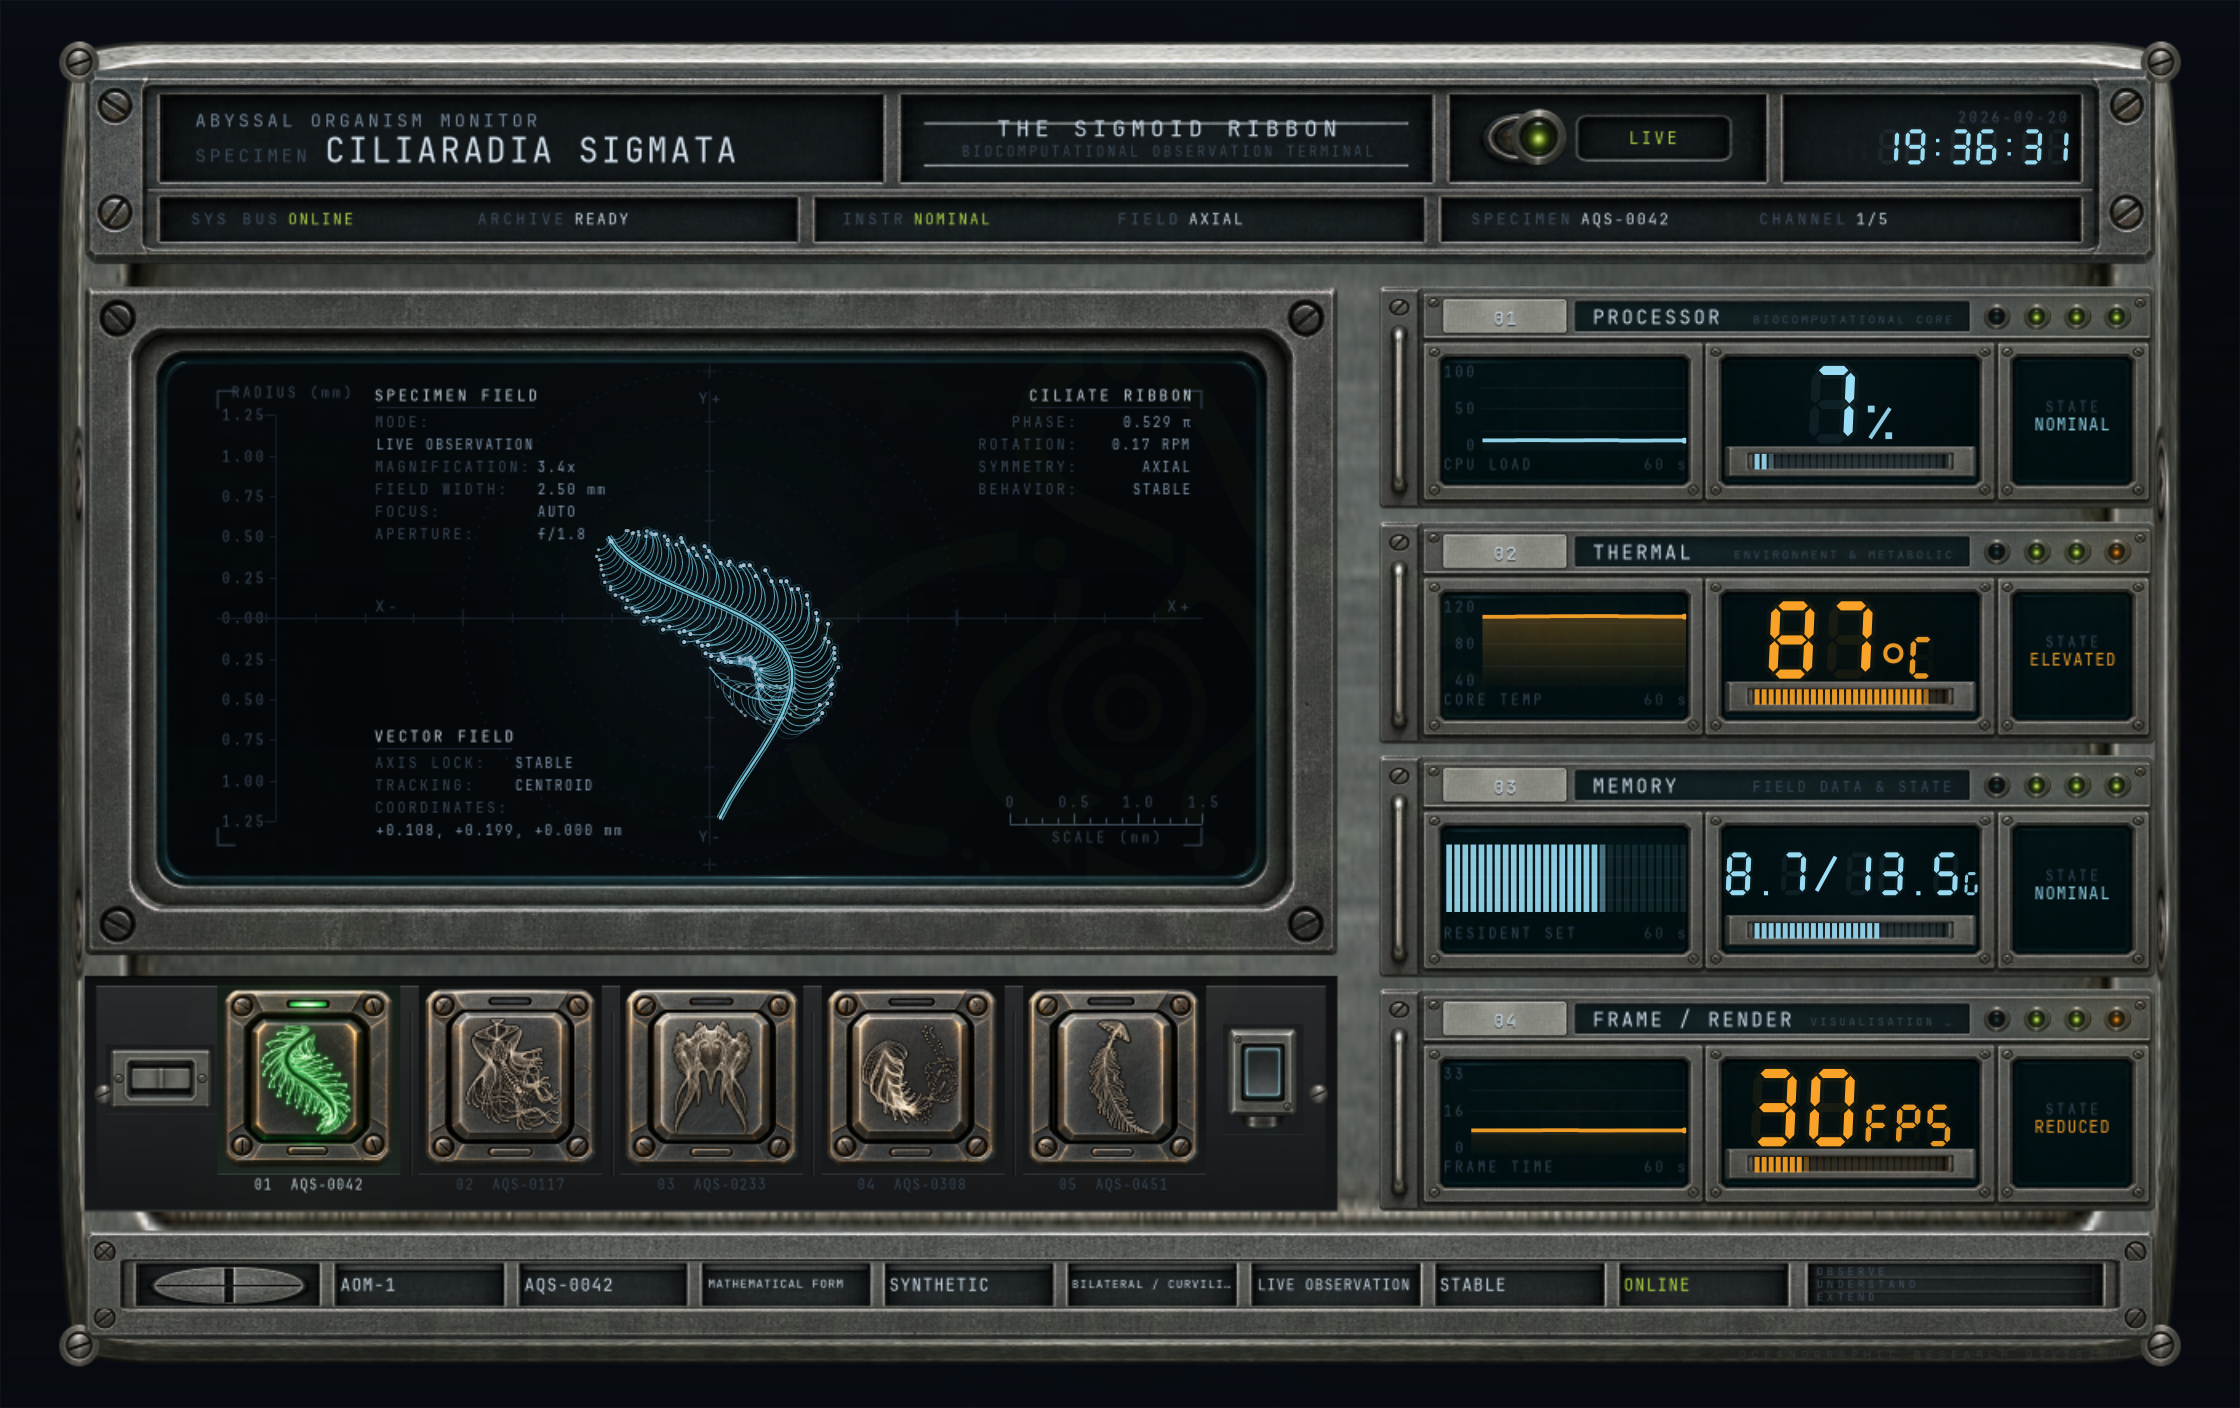
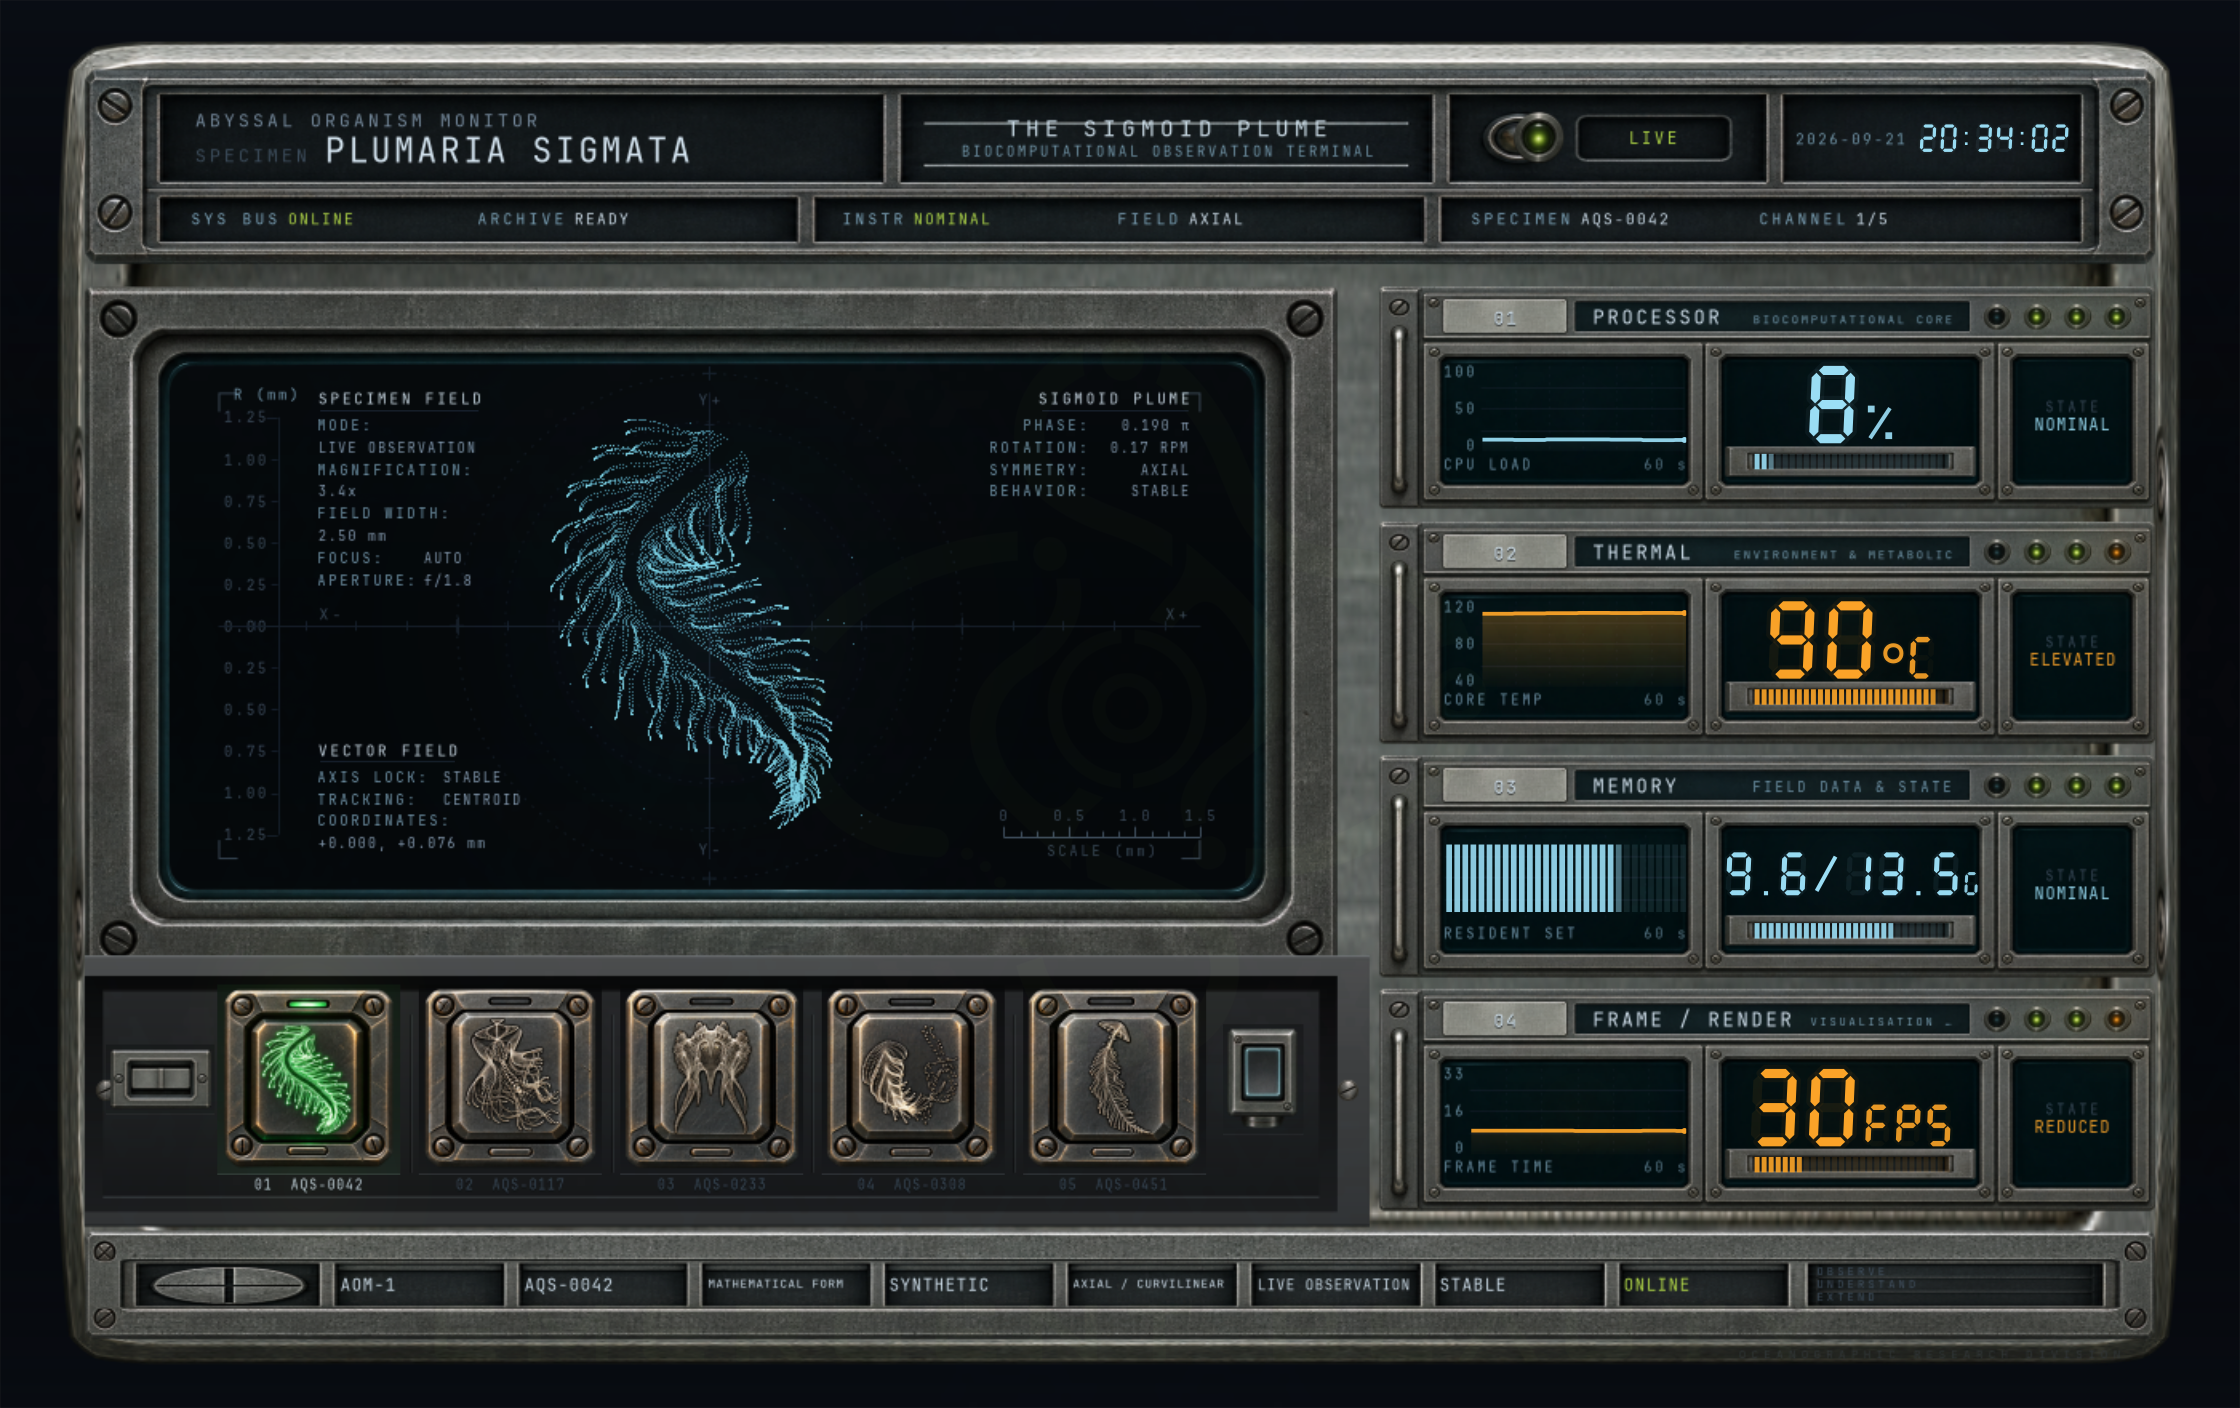
Hold the trail in seconds; finish the convergence pass
The mirrored specimen composites with a translucent wash, keeping 62% of each
frame. That rate is per frame at 60fps. On this compositor large windows
present at 30, so applied per frame the trail smeared across twice the motion
and the body read as a saturated mass. Retention is now raised to each
frame's own duration - the trail holds ~75ms at any frame rate - and the ink
gain divides out its steady-state brightness so a trailing specimen is not
brighter than a clearing one.

Final screenshots from the live app, the five standalone validation renders
with their key comparison, and the architecture, validation and README
updates for the equation port.

diff --git a/abyssal/organism/mathforms.py b/abyssal/organism/mathforms.py
@@ -76,7 +76,7 @@ class SourceBody:
     """One specimen. Solves its equation each frame into world coordinates."""
 
     __slots__ = ("src", "time", "seed", "core_r", "_perm", "_mod2", "_mod4",
-                 "_n", "_x", "_y", "_w", "_live", "_warm", "_expr")
+                 "_n", "_x", "_y", "_w", "_live", "_warm", "_expr", "_dt")
 
     def __init__(self, src: S.Source, seed: int = 20260920) -> None:
         self.src = src
@@ -103,6 +103,7 @@ class SourceBody:
         self._live = src.n
         self._warm = 0.0
         self._expr = 1.0
+        self._dt = 1.0 / SOURCE_FPS
         self.update(0.0, Physiology())
 
     # -- contract ---------------------------------------------------------
@@ -117,10 +118,18 @@ class SourceBody:
 
     @property
     def persist(self) -> float:
-        """Frame retention. Memory pressure lengthens what trails species keep."""
+        """Retention for THIS frame. Memory pressure lengthens the trail.
+
+        The source's retention is per frame at 60 frames a second. Applied per
+        frame on a machine presenting at 30, the trail would smear across twice
+        as much motion and read as a saturated mass. Raising it to the frame's
+        own duration keeps the trail's length constant in SECONDS, which is
+        the thing the eye actually sees.
+        """
         if self.src.persist <= 0.0:
             return 0.0
-        return min(0.88, self.src.persist + 0.16 * self._expr)
+        base = min(0.88, self.src.persist + 0.16 * self._expr)
+        return base ** max(0.25, min(4.0, self._dt * SOURCE_FPS))
 
     def points(self) -> tuple[np.ndarray, np.ndarray, np.ndarray]:
         """(world x, world y, weight) for this frame."""
@@ -136,6 +145,8 @@ class SourceBody:
         # can never become the whole of a creature's response to load.
         rate = 1.0 + 0.5 * p.agitation
         self.time += dt * SOURCE_FPS * self.src.dt * rate
+        if dt > 0.0:
+            self._dt = dt
 
         self._warm = _smoothstep(0.58, 0.95, p.pulse)
         self._expr = min(1.0, MIN_EXPRESSION

diff --git a/abyssal/organism/render.py b/abyssal/organism/render.py
@@ -139,6 +139,17 @@ def draw_organism(cr, vp: Viewport, org: SourceBody) -> None:
     # strongly, or the creature fades out as the window grows.
     eff = vp.scale * res
     ink = min(org.src.ink * 0.78 / max(eff * eff * 3.4, 0.02), 3.6)
+    # A trailing species keeps a fraction `r` of every frame, so its
+    # accumulator converges to 1/(1-r) times a single frame's count. Divide
+    # that back out, or the trail - the species' whole character - saturates
+    # into a solid silhouette and the structure inside it is lost.
+    # Square root rather than the full 1-r: the eye reads a soft-knee
+    # composite, not a linear count, so dividing the whole gain out left the
+    # trail a faint ghost. This keeps it as bright as a clearing species
+    # while leaving the structure inside it legible.
+    r = org.persist
+    if r > 0.0:
+        ink *= (1.0 - r) ** 0.5 * 1.55
 
     warm = org.warmth
     lo = _mix(CYAN_DEEP, (0.34, 0.20, 0.06), warm)

diff --git a/qa/shots.py b/qa/shots.py
@@ -13,10 +13,10 @@ import json  # noqa: E402
 SHOTS = [("compact", 460, 380, []), ("instrument", 900, 700, []),
          ("instrument-tall", 760, 620, []), ("archive", 1400, 880, []),
          ("calibration", 900, 700, ["--calibration"]),
-         ("specimen-2-funnelis", 1400, 880, ["--specimen", "1"]),
-         ("specimen-3-symmetra", 1400, 880, ["--specimen", "2"]),
-         ("specimen-4-dyad", 1400, 880, ["--specimen", "3"]),
-         ("specimen-5-frond", 1400, 880, ["--specimen", "4"])]
+         ("specimen-2-coniugata", 1400, 880, ["--specimen", "1"]),
+         ("specimen-3-rostrata", 1400, 880, ["--specimen", "2"]),
+         ("specimen-4-quadriplex", 1400, 880, ["--specimen", "3"]),
+         ("specimen-5-solitaria", 1400, 880, ["--specimen", "4"])]
 
 #: Close-ups cropped from a captured shot: (source, name, x, y, w, h) as
 #: FRACTIONS of the captured image, so they survive a resolution change.

diff --git a/docs/ARCHITECTURE.md b/docs/ARCHITECTURE.md
@@ -383,3 +383,76 @@ actually matters and holds for any body plan: projecting the body through the
 viewport and unprojecting it must be the identity. Any anisotropy, rounding or
 centre drift shows up as a non-zero residual. Measured residual across twenty
 sizes: `< 9e-13` world units.
+
+---
+
+# Final convergence pass
+
+## The organisms are their source equations
+
+`organism/sources.py` · `organism/mathforms.py` · `organism/pointfield.py`
+
+The previous pass reconstructed five body plans from the engraved selector
+keys. They are replaced by the published p5.js sketches the keys depict,
+ported verbatim — same variable names, operator order, constants, loop bounds,
+and the render loop's global `i` where the source reads it. The full
+transcriptions and the checks made against them are in
+`docs/CREATURE_EQUATIONS.md`.
+
+Three layers, each with one job:
+
+    sources.py     the equation, untouched, in its own 400x400 canvas
+    mathforms.py   a clock in real seconds, a seat in the world (one
+                   translation, one uniform scale), and physiology
+    pointfield.py  counting ten to forty thousand points into pixels
+
+**Why a point field.** The sources composite every sample additively at a low
+alpha; where the equation crowds the plane the image brightens, and that
+density is the creature's volume. Forty thousand Cairo arcs a frame would
+cost about a second. `np.bincount` over a flat pixel index is one C pass.
+
+**Bounded cost.** The field buffer covers only the creature's own disc, not
+the stage, and above 760px it is counted at that size and scaled once on the
+blit. At 2560×1600 this took the organism from 74ms to 7ms.
+
+**Persistence in seconds.** One source composites with `background(6,96)` —
+a translucent wash, so each frame keeps 62% of the last. That rate is per
+frame at 60fps; applied per frame at 30fps the trail smears across twice the
+motion. Retention is raised to the frame's own duration so the trail stays
+~75ms at any frame rate, and the ink gain divides out its steady-state
+brightness so a trailing species is not brighter than a clearing one.
+
+**Physiology never edits an equation.** It acts on the solved point cloud,
+and every term is proportional to its own channel, so at rest each specimen
+is exactly its source. GATE 4 compares the specimen at rest against the raw
+equation solved with no body at all.
+
+## A crash only the live gate could see
+
+The point field first reused one cairo surface, rewriting its pixels each
+frame. GSK keeps a snapshot of whatever it last painted, and Cairo aborts the
+process if a snapshotted surface is marked dirty. An offscreen ImageSurface
+never snapshots its sources, so every headless gate passed and the real
+window died within a second. GATE 0 — the Hyprland torture harness — caught
+it. The output image is now allocated per frame from `np.empty` (no memset);
+the accumulator and scratch, which only NumPy touches, stay cached.
+
+## The observation zones clear the specimen, not just the axis
+
+Each corner zone is clamped so its inner corner stays outside the specimen's
+disc — the circle solved at the zone's own edge, so a short block at the top
+may run further toward the axis than a tall one. Zones also carry a height
+budget that keeps them off the horizontal axis. A reading that cannot be
+shown whole is dropped rather than ellipsised; a key that would crowd the
+table goes key-over-value rather than being cut.
+
+## Hardware finish
+
+- **No programmatic chassis corner screws.** The header fascia, archive rail,
+  observation bezel and every module shell carry their own fasteners; a third
+  screw at each chassis corner sat within ~40px of two real ones.
+- **INK_TECH**, a fourth ink rank in the clock-blue family, for secondary
+  technical microtype that previously sat on INK_DIM and could not be read.
+- **The selector is milled into a lower board** of chassis metal, seamed to
+  the bezel at 3px, with a shadowed upper wall, a floor, and screws where it
+  terminates against the side members. No new assets were generated.

diff --git a/README.md b/README.md
@@ -11,17 +11,21 @@ a bay that was manufactured for it.
 
 ## The catalogue
 
-| # | Specimen | Body plan | Reads |
-|---|---|---|---|
-| 01 | CILIARADIA SIGMATA | sigmoid spine, club-tipped cilia on both flanks | load as beat frequency |
-| 02 | INFUNDIBULA COLONIALIS | three dotted conical bells, trailing tendrils | heat as aperture |
-| 03 | SYMMETRA ROSTRATA | exact mirror plane: rostrum, spiral eyes, eight arms | heat breaks the mirror |
-| 04 | DYADIS CONIUGATA | two bodies — a dense comb and a wandering orbit | I/O as a travelling packet |
-| 05 | PLUMIRADIA FALCATA | one long arcuate rachis under a hood | highest motion sensitivity |
+Each specimen is a published generative sketch — a compact p5.js program —
+ported verbatim to NumPy. The equation on screen is the equation in the
+source; see `docs/CREATURE_EQUATIONS.md`.
 
-They are five different organisms, not one solver with the symmetry order
-changed; `qa/console_gates.py` GATE 4 measures a shape signature for each and
-fails if any two come out similar.
+| # | Specimen | Source | Form | Telemetry reads as |
+|---|---|---|---|---|
+| 01 | PLUMARIA SIGMATA | s01 | sigmoid plume | a ripple down the body |
+| 02 | DIPLOSOMA CONIUGATA | s02 | two coupled bodies | I/O crossing between them |
+| 03 | SYMMETRA ROSTRATA | s03 | mirrored alien | heat breaking the mirror plane |
+| 04 | QUADRIPLUMA ARTICULATA | s04 | four separate plumes | load desynchronising the four |
+| 05 | PENNARIA SOLITARIA | s05 | single feather | a whip growing toward the tip |
+
+At rest every specimen reduces **exactly** to its published equation;
+`qa/console_gates.py` GATE 4 asserts it. Physiology shapes the creature, it
+never replaces it.
 
 ## Requirements
 
@@ -60,6 +64,7 @@ python3 qa/console_gates.py      # GATES 4-8 species, skin, selector, cache
 python3 qa/torture.py --shots    # GATE 0: real Hyprland resize torture test
 python3 qa/offscreen.py out.png --width 1400 --height 880
 python3 qa/specimen_sheet.py catalogue.png
+python3 qa/creature_validate.py  # each equation in its own 400x400 canvas
 python3 -m abyssal.telemetry.source      # live telemetry
 ```
 
@@ -82,9 +87,11 @@ abyssal/
     lighting.py       restrained spill from lit displays
     theme.py          palette and type
   organism/
-    mathforms.py      the five organisms: point equations, world units only
-    species.py        the catalogue: body plan + archive metadata
-    render.py         cairo drawing of any organism
+    sources.py        the five source equations, verbatim + NumPy port
+    mathforms.py      specimens: source clock, world seat, physiology
+    pointfield.py     accumulating point-field rasteriser
+    species.py        the catalogue: source + archive metadata
+    render.py         cairo drawing of any specimen
   telemetry/
     source.py         /proc and /sys sampling, with graceful fallback
   skin/

diff --git a/docs/VALIDATION.md b/docs/VALIDATION.md
@@ -214,3 +214,59 @@ inventory audit, including the two deliberate omissions — the telemetry rack
 (duplicates the module shell's own mounting and would cost ~20% of the graph
 width) and the chassis master (a fixed composition that cannot follow an
 arbitrary window aspect).
+
+
+---
+
+# Final convergence pass — measured results
+
+## Gates
+
+```
+GATE 0 live Hyprland     PASS   62 transitions, 146 resizes, 104 sizes, all
+                                three states, 0 rebuilds, clock monotonic,
+                                worst isotropy 1.1e-13 px
+GATE 1 geometry          PASS   projection is the identity, residual < 1e-12
+GATE 3 performance       PASS   every benched size inside 16.6 ms
+resize invariance        PASS   400 frames at random sizes, |dx| = |dy| = 0
+GATE 4 species           PASS   5 source equations; all reduce EXACTLY to
+                                their source at rest; closest pair 1.01
+                                (floor 0.35); mirror asymmetry 0.14 at rest,
+                                0.85 at the thermal limit
+GATE 5 skin              PASS
+GATE 6 selector          PASS   10 plates, one footprint, 50 hit tests
+GATE 7 switching         PASS   120 switches, no clock rewound
+GATE 8 static layer      PASS   warm vs cold render, max pixel delta 0
+```
+
+## Frame cost (headless, full frame)
+
+```
+=== GATE 3 — PERFORMANCE ===
+         size      sim  organism  console    total  fps_cap
+    420x340      0.25ms     0.15ms    1.75ms    2.15ms     466
+    900x700      0.28ms     0.68ms    3.25ms    4.20ms     238
+   1400x860      0.27ms     0.83ms    4.16ms    5.26ms     190
+   1920x1080     0.27ms     1.75ms    5.99ms    8.02ms     125
+   2560x1600     0.31ms     7.14ms    8.40ms   15.84ms      63
+```
+
+## Source-equation validation
+
+`python3 qa/creature_validate.py` renders each equation in its own 400×400
+canvas with its original sample count, time step and compositing. Output in
+`docs/creature_validation/`; `comparison.png` sets each beside its engraved
+key.
+
+## Known limitations
+
+- **Presented frame rate at large windows.** The app spends ~4.6 ms of its
+  16.6 ms budget; above roughly 1400×880 logical on this 1.6× display the
+  compositor presents at half rate. The FRAME / RENDER module reports that
+  truthfully. Tiled at the canonical size it presents at 78–80 fps.
+- **Source 05's orientation.** The equation draws its bulb at the lower end
+  of the rachis; the engraved key shows it at the top. The equation is
+  authoritative, so it is not flipped.
+- **Coordinates are planar.** The specimen field is 2-D, so the VECTOR FIELD
+  zone reports x and y; z was always zero and cost the width that let the
+  reading be shown whole.
